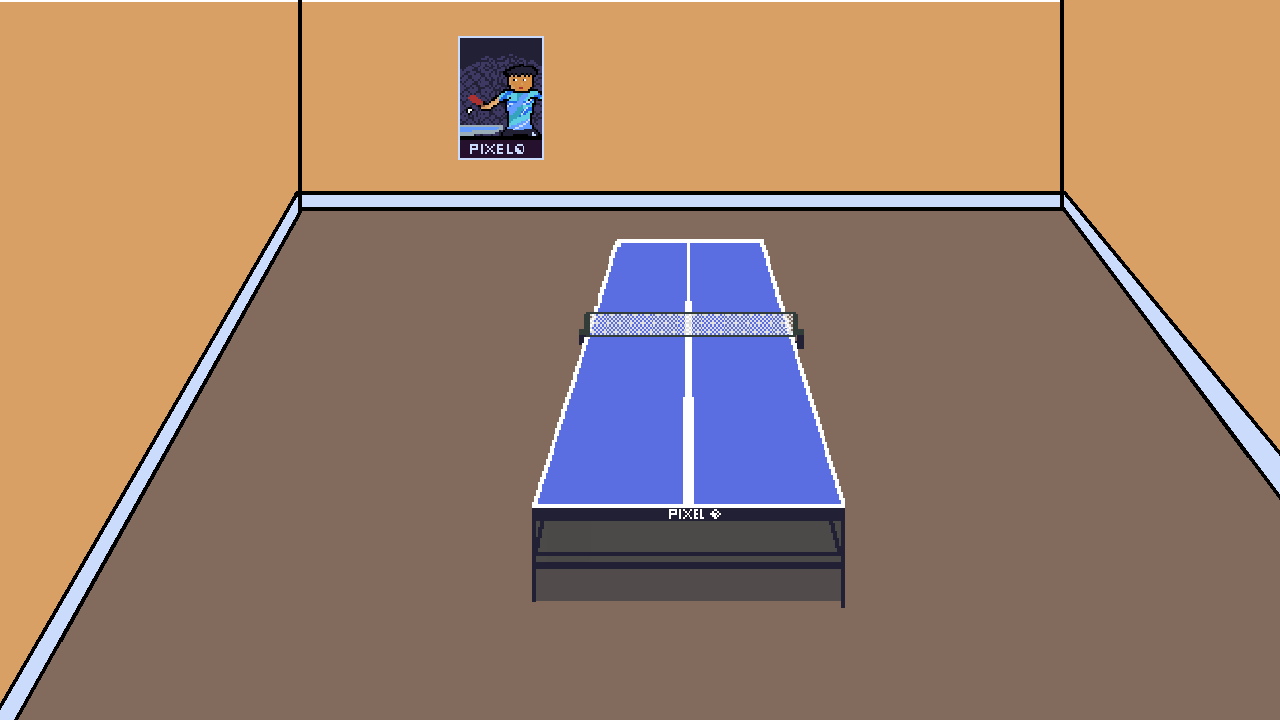
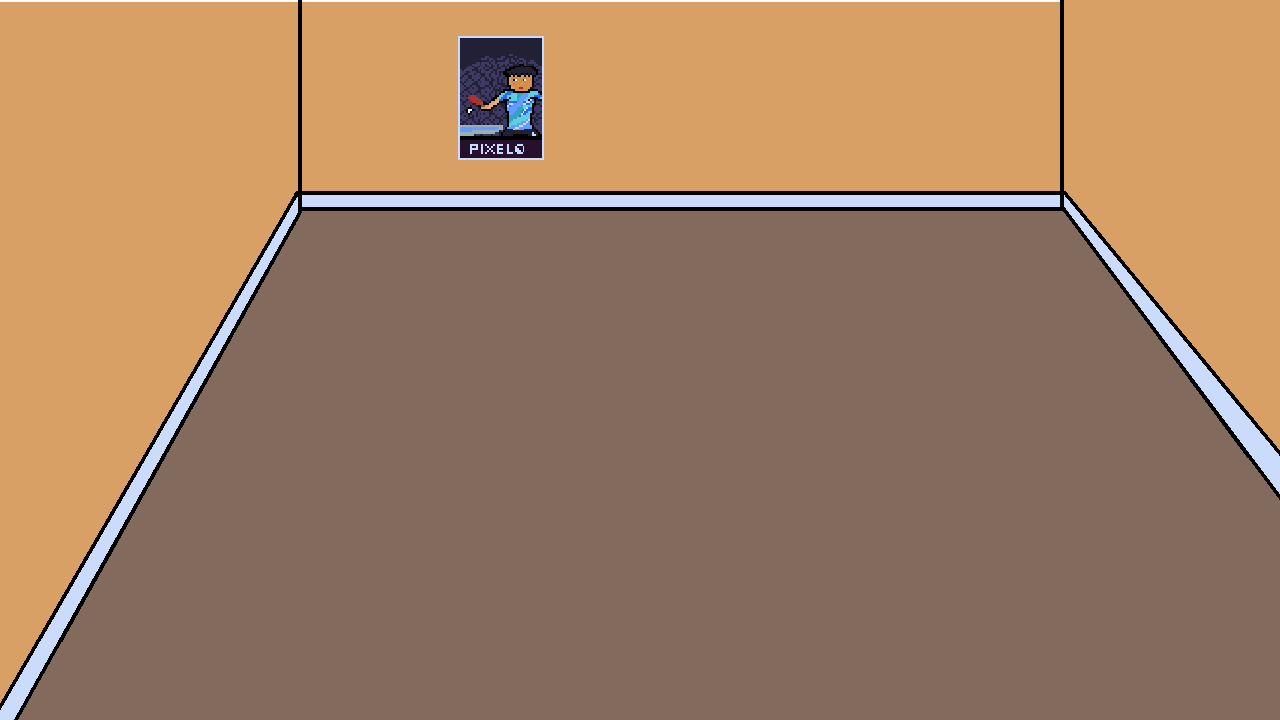
working on imgui layer

Changed region(s): [[0.4062, 0.3056, 0.6875, 0.8556]]

diff --git a/src/imgui/ImGuiLayer.cpp b/src/imgui/ImGuiLayer.cpp
@@ -18,84 +18,106 @@ void ImGuiLayer::render(GameContext* context) {
 
     // === Display Info ===
     if (ImGui::CollapsingHeader("Display", ImGuiTreeNodeFlags_DefaultOpen)) {
-        ImGui::Text("Resolution: %.0fx%.0f", context->display.windowSize.x, context->display.windowSize.y);
-        ImGui::Text("Logical: %.0fx%.0f", context->display.logicalSize.x, context->display.logicalSize.y);
+        ImGui::Text("Resolution: %.0fx%.0f",
+            context->display.windowSize.x, context->display.windowSize.y);
+        ImGui::Text("Logical: %.0fx%.0f",
+            context->display.logicalSize.x, context->display.logicalSize.y);
+
         ImGui::Separator();
         ImGui::Checkbox("Show Grid", &gGridDebug.drawGrid);
-        ImGui::Checkbox("Show Homography Grid", &context->camera.homography.drawGrid);
+        ImGui::Checkbox("Show Homography Grid",
+            &context->camera.homography.drawGrid);
     }
 
     // === Ball Debug ===
     if (ImGui::CollapsingHeader("Ball Debug", ImGuiTreeNodeFlags_DefaultOpen)) {
-        ImGui::SliderFloat("Ball Height", &context->physicsDebug.debugBallHeight, 0.0f, 3.0f);
-        ImGui::SliderFloat("Ball Velocity Z", &context->physicsDebug.debugBallVelocity.z, -2.0f, 2.0f);
-        ImGui::SliderFloat("Ball Velocity X", &context->physicsDebug.debugBallVelocity.x, -1.0f, 1.0f);
-        ImGui::Checkbox("Click to Spawn", &context->physicsDebug.clickToSpawn);
-        ImGui::Checkbox("Console Debug Output", &context->physicsDebug.enableConsoleDebugOutput);
-        if (ImGui::Button("Remove All Balls"))
+        ImGui::SliderFloat("Ball Height",
+            &context->physicsDebug.debugBallHeight,
+            0.0f, 3.0f);
+
+        ImGui::SliderFloat("Velocity Z",
+            &context->physicsDebug.debugBallVelocity.z,
+            -2.0f, 2.0f);
+
+        ImGui::SliderFloat("Velocity X",
+            &context->physicsDebug.debugBallVelocity.x,
+            -1.0f, 1.0f);
+
+        ImGui::Checkbox("Click to Spawn",
+            &context->physicsDebug.clickToSpawn);
+
+        if (ImGui::Button("Remove All Balls")) {
             ballRemoval.removeAll(context);
+        }
     }
 
-    // === Physics ===
+    // === Physics Debug ===
     if (ImGui::CollapsingHeader("Physics Debug")) {
-        ImGui::SliderFloat("Top/Backspin", &context->physicsDebug.debugBallSpin.x, -.3f, .3f);
-        ImGui::SliderFloat("Sidespin", &context->physicsDebug.debugBallSpin.y, -1.0f, 1.0f);
-        ImGui::SliderFloat("Magnus Coeff", &context->physicsDebug.debugKMagnus, 0.0f, 0.01f);
+        ImGui::SliderFloat("Top/Backspin",
+            &context->physicsDebug.debugBallSpin.x, -0.3f, 0.3f);
+
+        ImGui::SliderFloat("Sidespin",
+            &context->physicsDebug.debugBallSpin.y, -1.0f, 1.0f);
+
+        ImGui::SliderFloat("Magnus Coeff",
+            &context->physicsDebug.debugKMagnus, 0.0f, 0.01f);
+
         if (ImGui::Button("Reset Spin")) {
-            context->physicsDebug.debugBallSpin.x = 0;
-            context->physicsDebug.debugBallSpin.y = 0;
+            context->physicsDebug.debugBallSpin = { 0.f, 0.f, 0.f };
         }
-        ImGui::Checkbox("Enable Debug Spin", &context->physicsDebug.debugSpinEnabled);
-        ImGui::Checkbox("Draw Spin Arrows", &context->physicsDebug.debugSpinArrows);
-        ImGui::Checkbox("Click for Mouse Position", &context->physicsDebug.clickForMousePos);
+
+        ImGui::Checkbox("Enable Debug Spin",
+            &context->physicsDebug.debugSpinEnabled);
+        ImGui::Checkbox("Draw Spin Arrows",
+            &context->physicsDebug.debugSpinArrows);
+        ImGui::Checkbox("Show Debug Mouse Pos",
+            &context->physicsDebug.clickForMousePos);
+    }
+
+    // === Render Layers ===
+    if (ImGui::CollapsingHeader("Render Layers", ImGuiTreeNodeFlags_DefaultOpen)) {
+        auto& layers = context->renderLayers.layers;
+        auto& names = context->renderLayers.layerNames;
+
+        for (int i = 0; i < layers.size(); ++i) {
+            int layerId = layers[i];
+
+            // Name lookup from enum → readable text
+            const std::string& label = names[layerId];
+            ImGui::Selectable(label.c_str());
+
+            if (ImGui::IsItemActive() && !ImGui::IsItemHovered()) {
+                int moveDir = (ImGui::GetMouseDragDelta(0).y < 0) ? -1 : 1;
+                int swapWith = i + moveDir;
+
+                if (swapWith >= 0 && swapWith < layers.size()) {
+                    std::swap(layers[i], layers[swapWith]);
+                    ImGui::ResetMouseDragDelta();
+                }
+            }
+        }
+
+        ImGui::Text("Drag layers to change drawing order");
     }
 
     // === Stats ===
     if (ImGui::CollapsingHeader("Stats")) {
-        ImGui::Text("Entities: %d", static_cast<int>(context->registry.getEntityCount()));
+        ImGui::Text("Entities: %d",
+            static_cast<int>(context->registry.getEntityCount()));
     }
 
-    // --- Add mouse-focus indicator here ---
-    bool mouseOverUI = io.WantCaptureMouse;
-    ImGui::SetCursorPos(ImVec2(10, ImGui::GetIO().DisplaySize.y - 40));
+    // --- UI focus status indicator ---
+    bool uiFocus = io.WantCaptureMouse;
+    ImGui::Separator();
     ImGui::TextColored(
-        mouseOverUI ? ImVec4(0.2f, 1.f, 0.2f, 1.f) : ImVec4(1.f, 0.2f, 0.2f, 1.f),
-        mouseOverUI ? "UI Focused" : "Game Focused"
+        uiFocus ? ImVec4(0.2f, 1.f, 0.2f, 1.f)
+        : ImVec4(1.f, 0.2f, 0.2f, 1.f),
+        uiFocus ? "UI Focused" : "Game Focused"
     );
 
     ImGui::End();
 }
 
-
 void ImGuiLayer::shutdown() {
     ImGui::SFML::Shutdown();
-}
-
-void ImGuiLayer::drawDisplaySection(GameContext* context) {
-    ImGui::Text("Resolution: %.0fx%.0f", context->display.windowSize.x, context->display.windowSize.y);
-    ImGui::Text("Logical Size: %.0fx%.0f", context->display.logicalSize.x, context->display.logicalSize.y);
-    ImGui::Separator();
-
-    ImGui::Checkbox("Show Grid", &gGridDebug.drawGrid);
-    ImGui::Checkbox("Show Homography Grid", &context->camera.homography.drawGrid);
-}
-
-void ImGuiLayer::drawBallControls(GameContext* context) {
-
-    ImGui::Separator();
-    ImGui::Text("Ball Controls");
-
-    ImGui::Checkbox("Click to Spawn Ball", &context->physicsDebug.clickToSpawn);
-
-}
-
-void ImGuiLayer::drawPhysicsSection(GameContext* context) {
-    ImGui::Separator();
-    ImGui::Text("Spin Debug");
-
-    ImGui::SliderFloat("Top/Backspin", &context->physicsDebug.debugBallSpin.x, -200.0f, 200.0f);
-    ImGui::SliderFloat("Sidespin", &context->physicsDebug.debugBallSpin.y, -200.0f, 200.0f);
-    ImGui::SliderFloat("Magnus Coefficient", &context->physicsDebug.debugKMagnus, 0.0f, 0.1f);
-    ImGui::Checkbox("Enable Debug Spin", &context->physicsDebug.debugSpinEnabled);
-    ImGui::Checkbox("Enable Debug Spin Arrows", &context->physicsDebug.debugSpinArrows);
 }

diff --git a/src/systems/RenderSystem.cpp b/src/systems/RenderSystem.cpp
@@ -1,7 +1,8 @@
-#include "RenderSystem.hpp"
+#include "RenderSystem.hpp"
 #include "../systems/GridDebugSystem.hpp"
 #include "../components/Components.hpp"
 #include "../debug/Debug.hpp"
+
 void RenderSystem::render(sf::RenderWindow& window, Registry& registry, DisplayConfig& display, const Camera& camera) {
     Vec2 windowSize{
         static_cast<float>(window.getSize().x),
@@ -11,28 +12,41 @@ void RenderSystem::render(sf::RenderWindow& window, Registry& registry, DisplayC
     // --- Set camera view ---
     window.setView(camera.getView(windowSize));
 
-    // --- Render entities ---
-    for (auto e : registry.getEntitiesWith<CTransform, CAnimation>()) {
-        auto [transformComp, animationComp] = registry.getComponents<CTransform, CAnimation>(e);
-        if (!transformComp || !animationComp) continue;
+    // 📌 1) Gather drawables with transform + sprite + layer
+    struct DrawItem {
+        int layer;
+        CTransform* transform;
+        CAnimation* animation;
+    };
 
-        auto& animation = animationComp->animation;
+    std::vector<DrawItem> drawList;
+    for (auto e : registry.getEntitiesWith<CTransform, CAnimation, CRenderLayer>()) {
+        auto [t, a, rl] = registry.getComponents<CTransform, CAnimation, CRenderLayer>(e);
+        if (!t || !a || !rl) continue;
+
+        drawList.push_back({ rl->layer, t, a });
+    }
+
+    // 📌 2) Sort by layer value
+    std::sort(drawList.begin(), drawList.end(),
+        [](const DrawItem& a, const DrawItem& b) {
+            return a.layer < b.layer;
+        });
+
+    // 📌 3) Draw sorted list
+    for (auto& item : drawList) {
+        auto& animation = item.animation->animation;
         animation.update();
-
         sf::Sprite& sprite = animation.getSprite();
 
-        // --- World coordinates only for now ---
-        sprite.setPosition(transformComp->position.x, transformComp->position.y);
-        sprite.setRotation(transformComp->rotation);
-        sprite.setScale(transformComp->scale.x, transformComp->scale.y);
-
-        // --- Uncomment for homography later ---
-        // Vec2 screenPos = camera.worldToScreen(transformComp->position, windowSize);
-        // sprite.setPosition(screenPos.x, screenPos.y);
-        // sprite.setScale(transformComp->scale.x * camera.zoom, transformComp->scale.y * camera.zoom);
+        sprite.setPosition(item.transform->position.x, item.transform->position.y);
+        sprite.setRotation(item.transform->rotation);
+        sprite.setScale(item.transform->scale.x, item.transform->scale.y);
 
         window.draw(sprite);
     }
+
+    // === Optional Debug Layers ===
     if (gGridDebug.drawGrid) {
         gGridDebug.debugShowGrid(window, display);
     }
@@ -40,8 +54,9 @@ void RenderSystem::render(sf::RenderWindow& window, Registry& registry, DisplayC
         camera.homography.drawDebugGrid(window, 10, 5);
     }
     else {
-        camera.homography.printDebug = true; // this will reenable the debug message to print on the first frame the grid is displayed
+        camera.homography.printDebug = true;
     }
-    // --- Optional: reset view if drawing UI later ---
+
+    // Reset for ImGui overlay
     window.setView(window.getDefaultView());
 }

diff --git a/src/game/EntityFactory.cpp b/src/game/EntityFactory.cpp
@@ -6,7 +6,20 @@
 #include <iostream>
 #include "../debug/Debug.hpp" // at top
 
-
+/* INIT Animation Layers :
+Layer 0:
+Background
+Layer 1:
+Table
+Layer 2:
+Net
+Layer 3:
+Ball Shadow
+Layer 4:
+Ball
+Layer 5:
+Player
+*/
 
 Entity EntityFactory::createBackground() {
     Entity background = m_registry.createEntity("background");
@@ -15,6 +28,7 @@ Entity EntityFactory::createBackground() {
 
     const Animation& roomAnim = m_assets.getAnimation("OrangeRoom");
     auto& animComp = m_registry.addComponent<CAnimation>(background, roomAnim, false);
+    auto& render = m_registry.addComponent<CRenderLayer>(background, LAYER_BACKGROUND);
     // Ensure sprite origin is set and bounding box uses the animation sprite
     sf::Sprite& s = animComp.animation.getSprite();
     s.setOrigin(s.getLocalBounds().width / 2.f, s.getLocalBounds().height / 2.f);
@@ -84,6 +98,7 @@ Entity EntityFactory::createPlayer() {
 
     const Animation& standAnim = m_assets.getAnimation("Stand");
     auto& animComp = m_registry.addComponent<CAnimation>(player, standAnim, false);
+    auto& render = m_registry.addComponent<CRenderLayer>(player, LAYER_PLAYER);
 
     // Ensure sprite origin is set and bounding box uses the animation sprite
     sf::Sprite& s = animComp.animation.getSprite();
@@ -111,6 +126,7 @@ Entity EntityFactory::createBall(const Vec3& pos, const Vec3& vel) {
     // animation
     const Animation& animBall = m_assets.getAnimation("TopspinBall");
     auto& animComp = m_registry.addComponent<CAnimation>(ball, animBall, true);
+    auto& render = m_registry.addComponent<CRenderLayer>(ball, LAYER_BALL);
 
     sf::Sprite& s = animComp.animation.getSprite();
     s.setOrigin(s.getLocalBounds().width / 2.f, s.getLocalBounds().height / 2.f);
@@ -126,7 +142,8 @@ Entity EntityFactory::createBallShadow(const Vec2& pos) {
 
     // animation
     const Animation& animShadow = m_assets.getAnimation("BallShadow");
-    auto& animComp = m_registry.addComponent<CAnimation>(ballShadow, animShadow, true);
+    auto& animComp = m_registry.addComponent<CAnimation>(ballShadow, animShadow, false);
+    auto& render = m_registry.addComponent<CRenderLayer>(ballShadow, LAYER_BALL_SHADOW);
 
     sf::Sprite& s = animComp.animation.getSprite();
     s.setOrigin(s.getLocalBounds().width / 2.f, s.getLocalBounds().height / 2.f);

diff --git a/src/game/utils/GameContext.hpp b/src/game/utils/GameContext.hpp
@@ -9,6 +9,7 @@
 #include "../game/utils/Camera.hpp"
 #include "../math/Vec3.hpp"
 #include "../math/Vec2.hpp"
+#include "../render/RenderLayer.hpp"
 struct PhysicsDebugSettings {
     Vec3 debugBallSpin = { 0.0f, 0.0f, 0.0f };
     float debugBallHeight = 0.0f;
@@ -21,16 +22,20 @@ struct PhysicsDebugSettings {
     bool clickToSpawn = false;
     bool clickForMousePos = false;
 };
+
+
 struct GameContext {
     sf::RenderWindow window;
     DisplayConfig display;
     Assets assets;
     Registry registry;
+    RenderLayers renderLayers;
     RawInputState rawInput;
     EntityFactory entityFactory;
     PhysicsDebugSettings physicsDebug;
     Camera camera;
     bool inputBlocked = true;
+    bool showLayerEditor = false;
     
     GameContext()
         : entityFactory(registry, display, assets, camera) {

diff --git a/src/imgui/ImGuiLayer.hpp b/src/imgui/ImGuiLayer.hpp
@@ -10,8 +10,5 @@ class ImGuiLayer {
 public:
     void init(GameContext* context);
     void render(GameContext* context);
-    void drawDisplaySection(GameContext* context);
-    void drawBallControls(GameContext* context);
-    void drawPhysicsSection(GameContext* context);
     void shutdown();
 };

diff --git a/src/components/CRenderLayer.hpp b/src/components/CRenderLayer.hpp
@@ -1,0 +1,10 @@
+#pragma once
+#include "../ecs/Component.hpp"
+#include "../render/RenderLayer.hpp"
+class CRenderLayer : public Component {
+public:
+    int layer = LAYER_BACKGROUND; // default
+
+    CRenderLayer() = default;
+    explicit CRenderLayer(int l) : layer(l) {}
+};

diff --git a/src/components/Components.hpp b/src/components/Components.hpp
@@ -10,3 +10,4 @@
 #include "CState.hpp"
 #include "CBallShadow.hpp"
 #include "CBall.hpp"
+#include "CRenderLayer.hpp"
